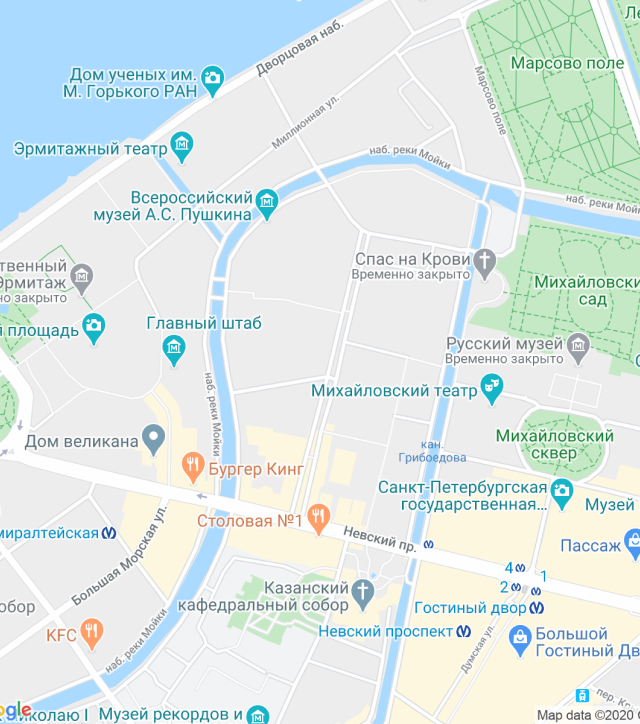
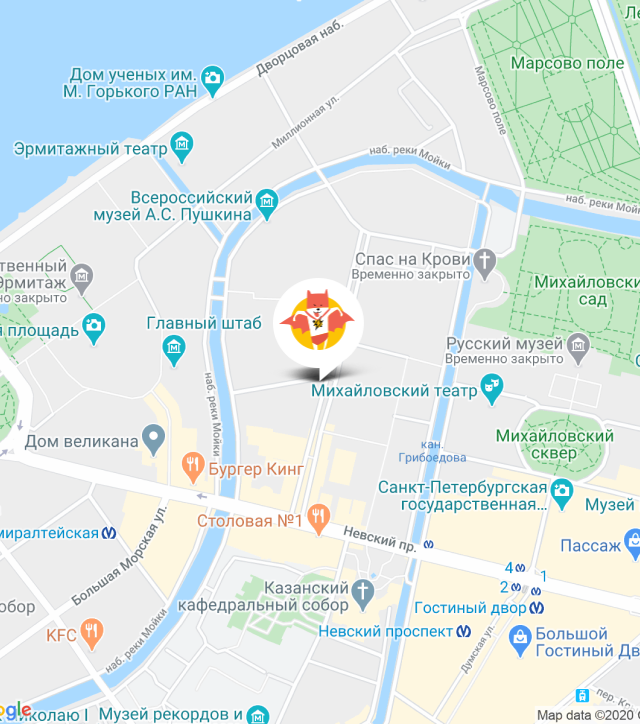
adds map and fixes hero background

Changed region(s): [[0.4375, 0.395, 0.5625, 0.547]]

diff --git a/source/catalog.html b/source/catalog.html
@@ -33,7 +33,7 @@
           </li>
         </ul>
       </nav>
-      <button class="header__mobile-menu" type="button">
+      <button class="header__mobile-menu" type="button" id="mobile-menu">
         <span class="visually-hidden">Показать меню</span>
       </button>
     </div>
@@ -254,24 +254,27 @@
     <section class="contacts">
       <div class="contacts__description container">
         <div class="contacts__content">
-          <h2 class="contacts__title">Приглашаем к сотрудничеству дилеров!</h2>
-          <address class="contacts__address">ул. Большая Конюшенная, д. 19/8
+          <h2 class="contacts__title">Приглашаем<br> к сотрудничеству<br> дилеров!</h2>
+          <address class="contacts__address">ул. Большая<br> Конюшенная, д. 19/8<br>
             <span>Санкт-Петербург</span>
           </address>
         </div>
       </div>
-      <picture>
-        <source media="(min-width: 1200px)" width="1440" height="400" type="image/jpeg" srcset="images/map-desktop@1x.png 1x, images/map-desktop@2x.png 2x">
-        <source media="(min-width: 768px)" width="768" height="400" type="image/jpeg" srcset="images/map-tablet@1x.png 1x, images/map-tablet@2x.png 2x">
-        <img class="contacts__map-image" src="images/map-mobile@1x.png" srcset="images/map-mobile@2x.png 2x" width="320" height="362" alt="Изображение карты">
-      </picture>
-      <div class="contacts__map"></div>
+      <div class="contacts__map">
+        <picture>
+          <source media="(min-width: 1200px)" width="1440" height="400" type="image/jpeg" srcset="images/map-desktop@1x.png 1x, images/map-desktop@2x.png 2x">
+          <source media="(min-width: 768px)" width="768" height="400" type="image/jpeg" srcset="images/map-tablet@1x.png 1x, images/map-tablet@2x.png 2x">
+          <img class="contacts__map-image" src="images/map-mobile@1x.png" srcset="images/map-mobile@2x.png 2x" width="320" height="362" alt="Изображение карты">
+        </picture>
+        <iframe src="https://www.google.com/maps/embed?pb=!1m18!1m12!1m3!1d1998.603787672859!2d30.32047247805643!3d59.93871647491515!2m3!1f0!2f0!3f0!3m2!1i1024!2i768!4f13.1!3m3!1m2!1s0x4696310fca145cc1%3A0x42b32648d8238007!2z0JHQvtC70YzRiNCw0Y8g0JrQvtC90Y7RiNC10L3QvdCw0Y8g0YPQuy4sIDE5LzgsINCh0LDQvdC60YIt0J_QtdGC0LXRgNCx0YPRgNCzLCAxOTExODY!5e0!3m2!1sru!2sru!4v1716108182416!5m2!1sru!2sru" width="320" height="362" allowfullscreen="" loading="lazy" referrerpolicy="no-referrer-when-downgrade" title="Офис компании по адресу ул. Большая Конюшенная, д. 19/8 Санкт-Петербург">
+        </iframe>
+      </div>
     </section>
   </main>
   <footer class="footer">
     <div class="footer__wrapper container">
-      <a class="footer__logo" href="#">
-        <img class="footer__logo-image" src="images/logo-text.svg" width="128" height="124" alt="Текстовый логотип сайта">
+      <a class="footer__logo" href="index.html">
+        <img class="footer__logo-image" src="images/logo-text-mobile.svg" width="128" height="124" alt="Текстовый логотип сайта">
       </a>
       <ul class="footer__socials socials">
         <li class="socials__item">
@@ -290,9 +293,11 @@
           </a>
         </li>
       </ul>
-      <a class="footer__copyright" href="#">
-        <span class="footer__copyright-text">HTML Academy</span>
-      </a>
+      <div class="footer__copyright">
+        <a class="footer__copyright-link" href="https://htmlacademy.ru/intensive/adaptive">
+          <span class="footer__copyright-text">HTML Academy</span>
+        </a>
+      </div>
     </div>
   </footer>
 </body>

diff --git a/source/index.html b/source/index.html
@@ -148,12 +148,15 @@
           </address>
         </div>
       </div>
-      <picture>
-        <source media="(min-width: 1200px)" width="1440" height="400" type="image/jpeg" srcset="images/map-desktop@1x.png 1x, images/map-desktop@2x.png 2x">
-        <source media="(min-width: 768px)" width="768" height="400" type="image/jpeg" srcset="images/map-tablet@1x.png 1x, images/map-tablet@2x.png 2x">
-        <img class="contacts__map-image" src="images/map-mobile@1x.png" srcset="images/map-mobile@2x.png 2x" width="320" height="362" alt="Изображение карты">
-      </picture>
-      <div class="contacts__map"></div>
+      <div class="contacts__map">
+        <picture>
+          <source media="(min-width: 1200px)" width="1440" height="400" type="image/jpeg" srcset="images/map-desktop@1x.png 1x, images/map-desktop@2x.png 2x">
+          <source media="(min-width: 768px)" width="768" height="400" type="image/jpeg" srcset="images/map-tablet@1x.png 1x, images/map-tablet@2x.png 2x">
+          <img class="contacts__map-image" src="images/map-mobile@1x.png" srcset="images/map-mobile@2x.png 2x" width="320" height="362" alt="Изображение карты">
+        </picture>
+        <iframe src="https://www.google.com/maps/embed?pb=!1m18!1m12!1m3!1d1998.603787672859!2d30.32047247805643!3d59.93871647491515!2m3!1f0!2f0!3f0!3m2!1i1024!2i768!4f13.1!3m3!1m2!1s0x4696310fca145cc1%3A0x42b32648d8238007!2z0JHQvtC70YzRiNCw0Y8g0JrQvtC90Y7RiNC10L3QvdCw0Y8g0YPQuy4sIDE5LzgsINCh0LDQvdC60YIt0J_QtdGC0LXRgNCx0YPRgNCzLCAxOTExODY!5e0!3m2!1sru!2sru!4v1716108182416!5m2!1sru!2sru" width="320" height="362" allowfullscreen="" loading="lazy" referrerpolicy="no-referrer-when-downgrade" title="Офис компании по адресу ул. Большая Конюшенная, д. 19/8 Санкт-Петербург">
+        </iframe>
+      </div>
     </section>
   </main>
   <footer class="footer">
@@ -179,7 +182,7 @@
         </li>
       </ul>
       <div class="footer__copyright">
-        <a class="footer__copyright-link" href="#">
+        <a class="footer__copyright-link" href="https://htmlacademy.ru/intensive/adaptive">
           <span class="footer__copyright-text">HTML Academy</span>
         </a>
       </div>

diff --git a/source/styles/blocks/hero.scss b/source/styles/blocks/hero.scss
@@ -1,7 +1,4 @@
 .hero {
-  // background-image: linear-gradient(to bottom, rgba(104, 183, 56, 0.85), rgba(104, 183, 56, 0.85)), url("../../images/hero-background-mobile@1x.jpg");
-  // background-repeat: no-repeat;
-  // background-size: 100% 302px;
   position: relative;
 
   @media (min-width: $tablet) {
@@ -17,16 +14,26 @@
     display: block;
     height: 302px;
     width: 100%;
+    background-image: linear-gradient(to right, rgba(84, 83, 88, 1) 0%, rgba(66, 64, 69, 1) 100%);
+  }
+
+  &::after {
+    content: "";
+    position: absolute;
+    top: 0;
+    left: 0;
+    z-index: -1;
+    display: block;
+    height: 302px;
+    width: 100%;
     background-image:
-      linear-gradient(to bottom, rgba(104, 183, 56, 0.85), rgba(104, 183, 56, 0.85)),
-      url("../../images/hero-background-mobile@1x.jpg"),
-      linear-gradient(to bottom, rgba(104, 183, 56, 1), rgba(104, 183, 56, 1));
+      linear-gradient(to left, rgba(99, 166, 59, 0.85), rgba(104, 183, 56, 0.85)),
+      url("../../images/hero-background-mobile@1x.jpg");
     background-repeat: no-repeat;
-    aspect-ratio: 320 / 302;
-    background-size: contain, cover;
     background-position: center;
   }
 }
+
 
 .hero__wrapper {
   display: flex;
@@ -39,19 +46,19 @@
 }
 
 .hero__title {
-  padding: 27px 0 0;
+  margin: 27px 0 0;
   color: $white;
 
   @media (min-width: $tablet) {
     order: -3;
-    padding: 65px 0 0 90px;
+    margin: 65px 0 0 90px;
     color: $black;
   }
 }
 
 .hero__slogan {
-  margin: 0;
-  padding: 25px 0 0;
+  margin: 25px 0 0;
+  padding: 0;
   color: $white;
   font-family: $secondary-font;
   font-size: 14px;
@@ -60,7 +67,7 @@
 
   @media (min-width: $tablet) {
     order: -2;
-    padding: 40px 0 50px 90px;
+    margin: 40px 0 50px 90px;
     font-size: 20px;
     line-height: 20px;
     color: $black;
@@ -68,11 +75,10 @@
 }
 
 .hero__image {
-  padding: 29px 0 0;
+  margin: 29px 0 0;
 
   @media (min-width: $tablet) {
-    margin-top: -84px;
-    padding: 0;
+    margin: -84px 0 0;
   }
 }
 

diff --git a/source/styles/blocks/contacts.scss b/source/styles/blocks/contacts.scss
@@ -15,6 +15,10 @@
   justify-content: space-between;
   padding: 26px 0;
 
+  @media (min-width: $tablet) {
+    padding: 61px 40px;
+  }
+
   @media (min-width: $desktop) {
     max-width: 565px;
     padding: 60px 78px 60px 80px;
@@ -52,6 +56,35 @@
   }
 }
 
+.contacts__map {
+  position: relative;
+  width: 100%;
+  height: 362px;
+  vertical-align: middle;
+
+  @media (min-width: $tablet) {
+    height: 400px;
+  }
+}
+
 .contacts__map-image {
   width: 100%;
+  height: 362px;
+
+  @media (min-width: $tablet) {
+    height: 400px;
+  }
+}
+
+.contacts iframe {
+  position: absolute;
+  top: 0;
+  left: 0;
+  width: 100%;
+  height: 362px;
+  border: none;
+
+  @media (min-width: $tablet) {
+    height: 400px;
+  }
 }

diff --git a/source/styles/blocks/programs.scss b/source/styles/blocks/programs.scss
@@ -28,7 +28,7 @@
     "button  button";
   grid-template-columns: 70px 1fr;
   min-height: 266px;
-  padding: 20px;
+  padding: 24px 20px 18px;
   background-color: $primary-color;
 
   @media (min-width: $tablet) {
@@ -83,7 +83,6 @@
 .programs__item--pro::before {
   width: 67px;
   height: 50px;
-  margin-top: 14px;
   margin-left: -7px;
   background-image: url("../../icons/stack.svg#tiger");
   background-size: 67px 50px;
@@ -104,10 +103,10 @@
 
 .programs__item-title {
   grid-area: title;
-  // padding: 10px 5px 29px 20px;
+  padding: 6px 0 0;
 
   @media (min-width: $tablet) {
-    padding: 0 0 24px;
+    margin: 0 0 24px;
   }
 }
 

diff --git a/source/styles/blocks/header.scss b/source/styles/blocks/header.scss
@@ -49,6 +49,7 @@
   position: absolute;
   top: 66px;
   left: 0;
+  z-index: 1;
   display: none;
   min-width: 100%;
   background-color: $white;
